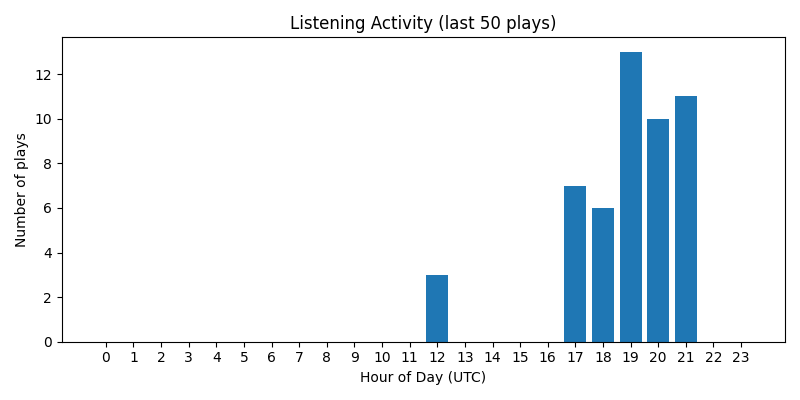
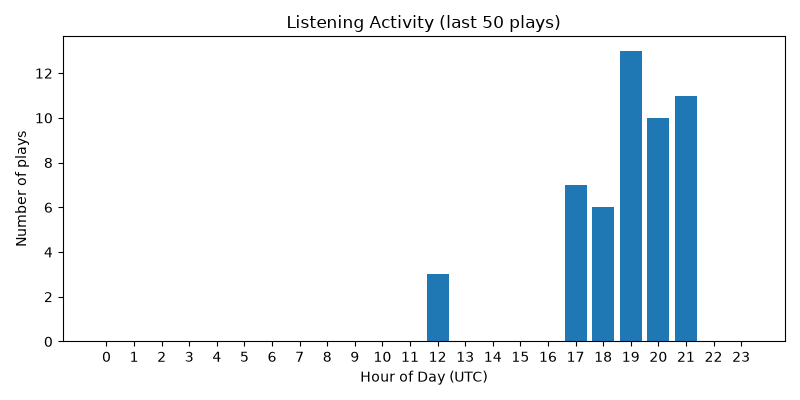
interactive changes

diff --git a/docs/index.html b/docs/index.html
@@ -1,5 +1,6 @@
 
         <head><title>My Spotify Listening Explorer</title></head>
+
         <style>
                 body {
                     background-color: #121212;
@@ -17,7 +18,9 @@
         <body style="font-family: sans-serif; text-align: center; padding: 40px;">
             <h1>My Spotify Listening Explorer</h1>
             <br>
+
             <h2>Top Artists</h2>
+            <p style="color: #888;">Data last updated: 2026-08-16</p>
             
     <ul style="
     list-style: none; 
@@ -31,17 +34,17 @@
             <br>
 
             <h2>Listening Activity</h2>
-            <img src="time_chart.png" />
-            <br>
+            <img src="time_chart.png" alt="Listening Chart"/>
             <br>
 
             <h2>Short term vs Long term (Short Term)</h2>
-            <p>
-                <strong>Comparison:</strong> 0 artists appear in both lists.
-            </p>
-            <div style="display: flex; justify-content: center; gap: 40px;">
+
                 <div>
-                    <h3>Short Term</h3>
+                    <button onclick="showList('short-term')" style="margin-right: 10px; padding: 8px 16px; background: #1DB954; color: white; border: none; border-radius: 20px; cursor: pointer;">Last 4 Weeks</button>
+                    <button onclick="showList('long-time')" style="padding: 8px 16px; background: #333; color: white; border: none; border-radius: 20px; cursor: pointer;">All-Time</button>
+                </div>
+
+                <div id="short-term" style="display: block;">
                     
     <ul style="
     list-style: none; 
@@ -53,8 +56,7 @@
 
    
                 </div>
-                <div>
-                    <h3>Long Term</h3>
+                <div id="long-term" style="display: none;">
                     
     <ul style="
     list-style: none; 
@@ -67,6 +69,15 @@
    
                 </div>
             
+                <p>0 artist(s) appear in both: none</p>
+
+
+                <script>
+                    function showList(which) {
+                        document.getElementById('short-term').style.display = (which === 'short-term') ? 'block' : 'none';
+                        document.getElementById('long-term').style.display = (which === 'long-term') ? 'block' : 'none';
+                    }
+                </script>
             </body>
     </html>
     

diff --git a/build_site.py b/build_site.py
@@ -75,8 +75,12 @@ def build():
     comparison_count, comparison_names = get_comparison_stat(data)
 
     make_listening_time_chart(data)
+
+    joined_names = ", ".join(comparison_names) if comparison_count > 0 else "none"
+
     html = f"""
         <head><title>My Spotify Listening Explorer</title></head>
+
         <style>
                 body {{
                     background-color: #121212;
@@ -94,28 +98,39 @@ def build():
         <body style="font-family: sans-serif; text-align: center; padding: 40px;">
             <h1>My Spotify Listening Explorer</h1>
             <br>
+
             <h2>Top Artists</h2>
+            <p style="color: #888;">Data last updated: {data['fetched_at'][:10]}</p>
             {artists_list}
             <br>
 
             <h2>Listening Activity</h2>
-            <img src="time_chart.png" />
+            <img src="time_chart.png" alt="Listening Chart"/>
             <br>
 
             <h2>Short term vs Long term (Short Term)</h2>
-            <p>
-                <strong>Comparison:</strong> {comparison_count} artists appear in both lists.
-            </p>
-            <div style="display: flex; justify-content: center; gap: 40px;">
+
                 <div>
-                    <h3>Short Term</h3>
+                    <button onclick="showList('short-term')" style="margin-right: 10px; padding: 8px 16px; background: #1DB954; color: white; border: none; border-radius: 20px; cursor: pointer;">Last 4 Weeks</button>
+                    <button onclick="showList('long-time')" style="padding: 8px 16px; background: #333; color: white; border: none; border-radius: 20px; cursor: pointer;">All-Time</button>
+                </div>
+
+                <div id="short-term" style="display: block;">
                     {short_term_list}
                 </div>
-                <div>
-                    <h3>Long Term</h3>
+                <div id="long-term" style="display: none;">
                     {artists_list}
                 </div>
             
+                <p>{comparison_count} artist(s) appear in both: {joined_names}</p>
+
+
+                <script>
+                    function showList(which) {{
+                        document.getElementById('short-term').style.display = (which === 'short-term') ? 'block' : 'none';
+                        document.getElementById('long-term').style.display = (which === 'long-term') ? 'block' : 'none';
+                    }}
+                </script>
             </body>
     </html>
     """

diff --git a/fetch_data.py b/fetch_data.py
@@ -5,7 +5,7 @@ import json
 import os
 from datetime import datetime, timezone
 
-import spotipy
+from spotipy import Spotify
 from dotenv import load_dotenv
 from spotipy.oauth2 import SpotifyOAuth
 
@@ -17,7 +17,7 @@ SCOPE = "user-top-read user-read-recently-played"
 #connection to spotify's API using spotipy library and OAuth authentication
 #SpotifyOAuth handles login and permission
 #cache_path - after first login, the access token is saved in .spotify_cache file, so you don't have to log in again
-sp = spotipy.Spotify(
+sp = Spotify(
     auth_manager=SpotifyOAuth(
         client_id=os.environ["SPOTIFY_CLIENT_ID"],
         client_secret=os.environ["SPOTIFY_CLIENT_SECRET"],
@@ -78,9 +78,30 @@ def get_recently_played():
         })
     return out
 
+
+
 #runs all 3 functions and saves the results to a JSON file (spotify_data.json)
 def main():
     print("Fetching your Spotify data...")
+
+    #updating tracks once in a while
+    existing_history = []
+    if os.path.exists("spotify_data.json"):
+         with open("spotify_data.json", "r",encoding="utf-8") as f:
+            try:
+                old_data = json.load(f)
+                existing_history = old_data.get("recently_played",[])
+            except json.JSONDecodeError:
+                pass # if file is empty/corrupt exception
+
+    #getting new data, comparing it to old tracks using timestamp and adding new tracks
+    new_data = get_recently_played()
+    old_timestamps = {track["played_at"] for track in existing_history}
+    new_tracks = [track for track in new_data if track["played_recently"] not in old_timestamps]
+
+    #new tracks placed at the top
+    combined_history = new_tracks + existing_history
+             
 
     data = {
         "fetched_at": datetime.now(timezone.utc).isoformat(),
@@ -102,6 +123,7 @@ def main():
 
     print(f"Done. Saved {len(data['top_tracks']['long_term'])} long-term top tracks "
           f"and {len(data['recently_played'])} recently played tracks to spotify_data.json")
+
 
 
 if __name__ == "__main__":

diff --git a/README.md b/README.md
@@ -1,1 +1,69 @@
-# Spotify-Listening-Habits-Explorer
+# Spotify Listening Explorer
+
+A small Python tool that pulls my own Spotify listening data and builds a static, interactive-feeling dashboard showing listening patterns — top artists, how recent taste compares to all-time favourites, and what time
+of day I listen most.
+
+
+## What it does
+
+- Logs into Spotify (my own account) and pulls top tracks, top artists, and recently played tracks via the Spotify Web API
+- Compares "last 4 weeks" vs. "all-time" top artists and shows the overlap between them
+- Builds a chart of listening activity by hour of day, using real timestamps from recently played tracks
+- Generates a static site from that data — no live server needed to view it
+
+## How it works
+
+Two scripts, run in order:
+
+1. **`fetch_data.py`** — the only part that talks to Spotify. Logs in via OAuth (one-time browser login, then cached locally), pulls the data, and saves it to `spotify_data.json`.
+2. **`build_site.py`** — reads that JSON file, generates the charts with matplotlib, and writes a static `index.html` + time chart image png into `/docs`, which GitHub Pages serves directly.
+
+Splitting it this way means the deployed site never needs API credentials and loads instantly, since it's just static files reading from pre-fetched data rather than calling Spotify live on every visit.
+
+## Running it locally
+
+```bash
+pip install -r requirements.txt
+```
+
+Create a `.env` file in the project root:
+```
+SPOTIFY_CLIENT_ID=your_client_id
+SPOTIFY_CLIENT_SECRET=your_client_secret
+SPOTIFY_REDIRECT_URI=http://127.0.0.1:8888/callback
+```
+(Get these by registering a free app at
+[developer.spotify.com/dashboard](https://developer.spotify.com/dashboard))
+
+Then:
+```bash
+python fetch_data.py    # pulls your data, opens a browser to log in
+python build_site.py    # builds the static site into /docs
+```
+Open `docs/index.html` in a browser to preview it locally.
+
+## Known limitations
+
+- **Genre and popularity data aren't used.** Spotify deprecated the
+  `audio-features` endpoint entirely in late 2024 and stripped the
+  `popularity` field (and unreliably returns `genres`) in a Feb 2026
+  update. Rather than fake numbers where real ones no longer exist, the
+  charts were redesigned around data Spotify still reliably provides —
+  which is why "top artists" is shown as a ranked list, not a bar chart
+  with no real value to measure.
+- **Listening-time chart uses UTC**, not local time — a fix for a future
+  version.
+- **Data is a snapshot**, not live — re-run both scripts to refresh it.
+
+## What's next
+
+- Convert the hour-of-day chart to local time
+- Add an optional "log in with your own Spotify" view so visitors can see
+  their own stats (dropped from this version to hit a tighter timeline —
+  the OAuth login flow itself already works, just isn't wired into the
+  static site yet)
+- Automate data refresh on a schedule via GitHub Actions
+
+## Stack
+
+Python, Spotipy, Matplotlib, static HTML/CSS, deployed via GitHub Pages.
